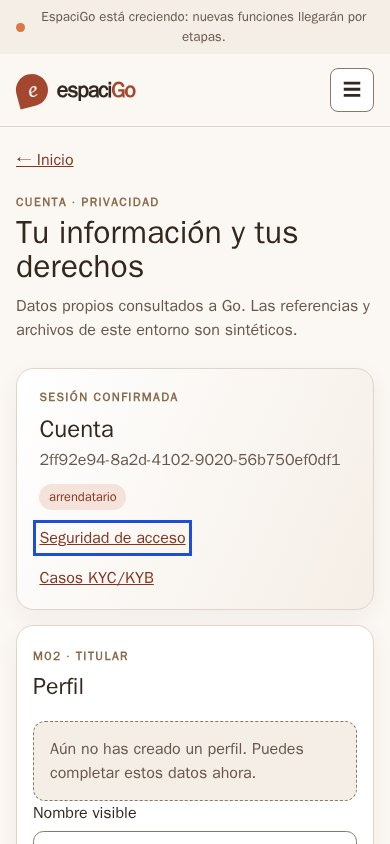
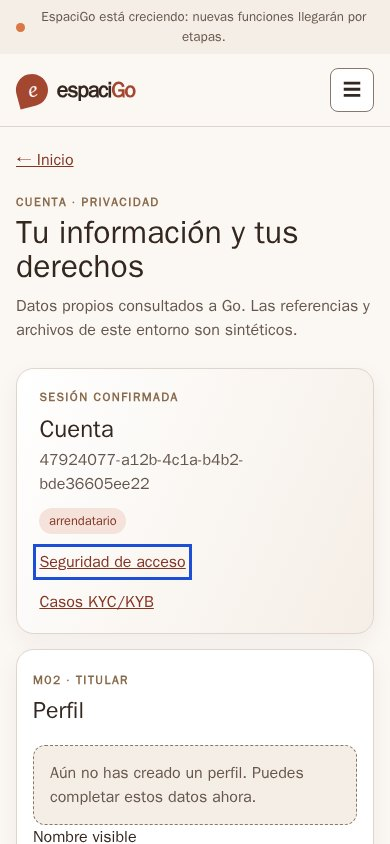
docs(fe14): record compose compatibility rerun

Changed region(s): [[0.0615, 0.5237, 0.9231, 1.0]]

diff --git a/planning/frontend/evidencia/FE14_aceptacion.md b/planning/frontend/evidencia/FE14_aceptacion.md
@@ -1,16 +1,25 @@
 # FE-14 — Registro de aceptación visual y artefactos exactos
 
-Source commit E2E corregido: `6277140b8fef7226fe29d10284b67d36d943d780` (runner Angular/Playwright construido desde este árbol).
+Source commit E2E: `6277140b8fef7226fe29d10284b67d36d943d780` (runner Angular/Playwright construido desde este árbol).
+
+## Reensayo de compatibilidad Compose — 2026-10-12
+
+- Cambio del hilo de compatibilidad: commit `5610369` mueve `angular-e2e` y sus tres bind mounts obligatorios desde `compose.frontend.yaml` a `compose.frontend-e2e.yaml`. El stack normal carga solo el primero; `scripts/test-frontend-e2e.sh` carga ambos overlays para FE-14. `accounts.json` sigue `read_only`; artefactos/resultados son los únicos directorios escribibles del runner. No se montan secretos, TLS, evidencia privada ni datos de replay.
+- Compatibilidad base comprobada con `FE14_*` y `LOCAL_FRONTEND_E2E` ausentes: `config-frontend` terminó correctamente y su configuración no contiene `angular-e2e`. Al cargar explícitamente el overlay E2E sin esas rutas, Compose falla como corresponde con `FE14_ACCOUNT_FILE_HOST is required`; el requisito queda confinado a ese flujo.
+- Ensayo Docker FE-13 repetido: proyecto/volumen desechables `espacigo_fe13_20261012215917_1723834` / `espacigo_fe13_20261012215917_1723834_pgdata`; puertos API/Angular 18680/18683. Pasaron build y healthcheck, Angular sin credenciales DB, solo red API y sin mock; `verify-frontend` confirmó URL pública, readiness y CORS. La caída dejó Go sin readiness y Angular saludable; la restauración volvió a pasar readiness y verify. La limpieza retiró el proyecto y volumen de prueba; no se tocó el volumen persistente.
+- E2E autenticada repetida: proyecto/volumen `espacigo_fe14_13641c8c087f` / `espacigo_fe14_13641c8c087f_pgdata`; puertos API/Angular/Mailpit 18780/18783/18782. Resultado Playwright: 3/3. Verificó el aislamiento del runner, roles/tercero/descargas privadas y fallo/restauración real de Go con la misma cuenta, HTTP 200 autenticado, respuesta demorada controlada y sin nuevo login. Logs backend sin correos ni contraseñas sintéticas. El volumen y archivos temporales fueron eliminados al terminar.
+- Imágenes locales exactas (image ID): FE-13 Angular `sha256:a3c9bffe71dba413b3b3c3d2979fb6d7f2d132f7f16bdafbcfc6038676bd3ef8`, runner `sha256:52aa5956d348949582efedbbbc636661a845419d59b097d4afcdd76fa572e8b6`, API `sha256:5c635f63c6454685280054cc533aa4ea073b26a54a84c8822b8604f7bac2ea0a`, DB `sha256:868c4276a780e3f9f83c0a499c6d5c25cada346de9662bce5d206bfc694061f6`. FE-14 Angular `sha256:01cae4e060f623d0724bf49f84d9b189add4b6cd9e74f5c7ba9e4b6c7442e29c`, Playwright runner `sha256:6909d47498a9498bc59796a701ca1df8430b0c30710d4a2c20621020659a11e1`, API `sha256:d0770f51f3eb2ca5a9b36a22ba6be6a930dcb698452e3851a645a2c6e58496e2`, DB `sha256:ed19243529d03bf682461aacc021bef2497abd40f75844a0a815aae576be032a`.
+- Capturas JPEG revalidadas con Chromium. Todas las seis vistas de rol/viewport mantienen ancho de documento igual a su viewport. Se actualizaron hashes y altura de documento para las capturas de arrendatario y administrador móvil regeneradas en esta corrida.
 
 ## Imágenes reproducibles
 
 | Vista | Viewport CSS | Documento CSS | Archivo JPEG | SHA-256 |
 | --- | ---: | ---: | --- | --- |
[10 lines of base64/hex data omitted]
 
@@ -19,7 +28,7 @@ Cada JPEG es una captura real de Chromium con sesión sintética ya autenticada.
 ## Ejecución y contenido
 
 - Base: `main` posterior a PR #288, `4eaf98fcd0a46326c884e4f3236d7e55ff39e0df`.
-- E2E source: `6277140b8fef7226fe29d10284b67d36d943d780`.
+- E2E source: `6277140b8fef7226fe29d10284b67d36d943d780`; Compose compatibility fix: `5610369`.
 - Imagen Angular local: `sha256:5b519c5e467d15fa8de3dad5ea871cbcc05a25b65c2537dcab15657b5a3e0a81`.
 - Imagen runner E2E: `sha256:e0ea89b0f3dcf39dd201e3791b0beb489b74d5976eaa2751cb98ae5fa6b550ee`.
 - Base Playwright: `mcr.microsoft.com/playwright:v1.56.1-noble@sha256:f1e7e01021efd65dd1a2c56064be399f3e4de00fd021ac561325f2bfbb2b837a`.
